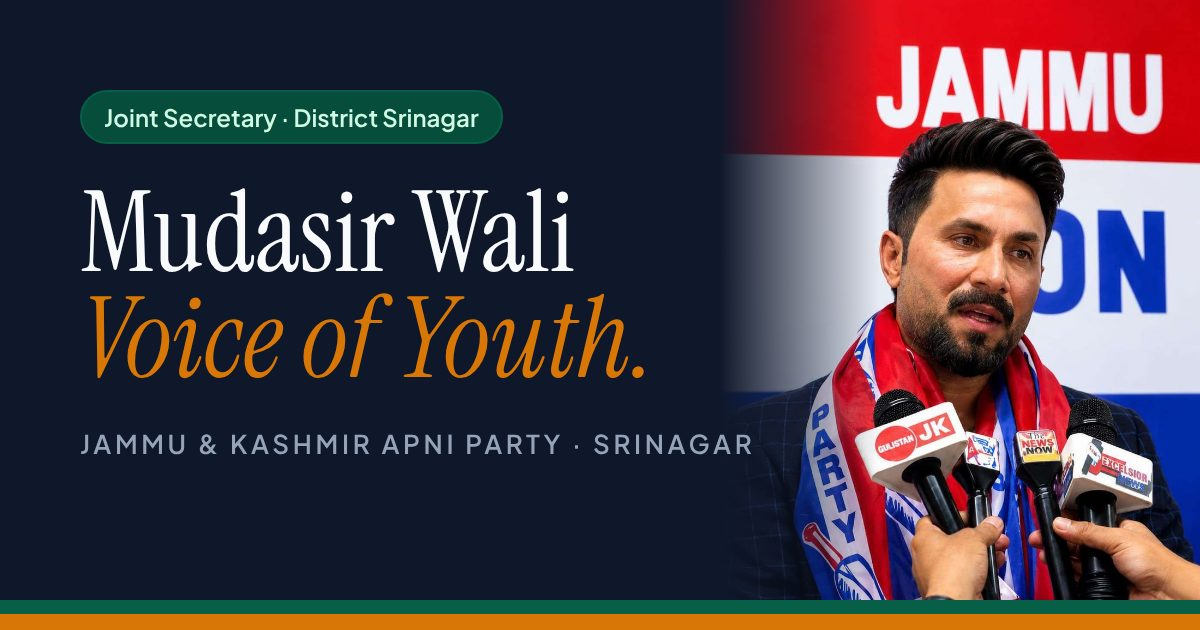
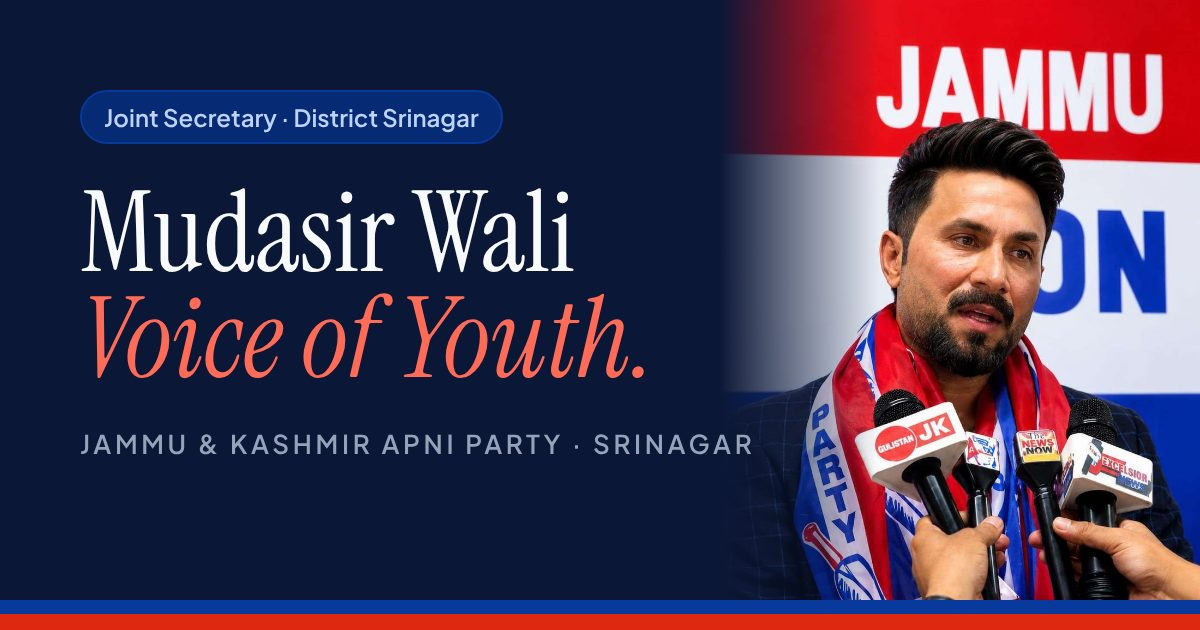
Re-theme to J&K Apni Party flag colours (red, white, blue)
Claude-Session: https://claude.ai/code/session_01TrgbCpq2MKgHR2873eZrCH

Changed region(s): [[0.0, 0.9349, 1.0, 1.0], [0.0617, 0.4524, 0.555, 0.6032], [0.0617, 0.1206, 0.4317, 0.2413]]

diff --git a/src/pages/Connect.tsx b/src/pages/Connect.tsx
@@ -35,24 +35,24 @@ export default function Connect() {
 
   return (
     <div className="relative min-h-dvh overflow-hidden bg-ink text-paper">
-      <div className="absolute inset-0 bg-[radial-gradient(ellipse_at_top,rgba(6,95,70,0.55),transparent_65%)]" aria-hidden="true" />
+      <div className="absolute inset-0 bg-[radial-gradient(ellipse_at_top,rgba(8,57,156,0.55),transparent_65%)]" aria-hidden="true" />
       <main className="relative mx-auto flex max-w-md flex-col px-4 pb-12 pt-6">
         <div className="flex justify-end">
           <LangToggle className="text-paper" />
         </div>
 
         <header className="mt-4 flex flex-col items-center text-center">
-          <div className="rounded-full p-1 ring-2 ring-gold">
+          <div className="rounded-full p-1 ring-2 ring-accent">
             <Portrait className="size-28" rounded="rounded-full" position="52% 42%" />
           </div>
           <h1 className="mt-5 font-serif text-5xl leading-none">Mudasir Wali</h1>
           <p className="mt-3 text-sm font-semibold text-paper/90">{t.about.title}</p>
-          <p className="mt-3 inline-flex items-center gap-1.5 text-sm font-medium text-emerald-100">
-            <BadgeCheck className="size-4 text-gold" aria-hidden="true" />
+          <p className="mt-3 inline-flex items-center gap-1.5 text-sm font-medium text-brand-soft">
+            <BadgeCheck className="size-4 text-accent" aria-hidden="true" />
             {t.hero.badge}
           </p>
           <p className="mt-1 text-xs uppercase tracking-[0.18em] text-slate-400">{t.hero.party}</p>
-          <p className="mt-4 font-serif text-2xl italic text-gold">
+          <p className="mt-4 font-serif text-2xl italic text-accent">
             {t.hero.title1} {t.hero.title2}
           </p>
         </header>
@@ -65,13 +65,13 @@ export default function Connect() {
                   href={href}
                   {...(external ? { target: "_blank", rel: "noopener noreferrer" } : {})}
                   className={`flex min-h-16 items-center gap-4 rounded-2xl px-5 py-3 transition active:scale-[0.99] ${
-                    primary ? "bg-amber-700 text-white hover:bg-amber-800" : "bg-white/[0.07] ring-1 ring-white/10 hover:bg-white/[0.12]"
+                    primary ? "bg-accent text-white hover:bg-accent-deep" : "bg-white/[0.07] ring-1 ring-white/10 hover:bg-white/[0.12]"
                   }`}
                 >
                   <Icon className="size-5 shrink-0" aria-hidden="true" />
                   <span className="flex-1 text-start">
                     <span className="block font-semibold">{label}</span>
-                    {sub && <span className={`block text-xs ${primary ? "text-amber-100" : "text-slate-400"}`}>{sub}</span>}
+                    {sub && <span className={`block text-xs ${primary ? "text-white" : "text-slate-400"}`}>{sub}</span>}
                   </span>
                   {external && <ExternalLink className="size-4 opacity-60" aria-hidden="true" />}
                 </a>
@@ -83,7 +83,7 @@ export default function Connect() {
                 aria-expanded={showForm}
                 aria-controls="connect-volunteer"
                 onClick={() => setShowForm((s) => !s)}
-                className="flex min-h-16 w-full items-center gap-4 rounded-2xl bg-forest px-5 py-3 font-semibold transition hover:bg-forest-deep"
+                className="flex min-h-16 w-full items-center gap-4 rounded-2xl bg-brand px-5 py-3 font-semibold transition hover:bg-brand-deep"
               >
                 <Users className="size-5 shrink-0" aria-hidden="true" />
                 <span className="flex-1 text-start">{t.hero.ctaJoin}</span>

diff --git a/src/components/Hero.tsx b/src/components/Hero.tsx
@@ -7,13 +7,13 @@ export function Hero() {
   const { t } = useLang();
   return (
     <section className="relative isolate overflow-hidden bg-ink text-paper">
-      <div className="absolute inset-0 -z-10 bg-[radial-gradient(ellipse_at_top_right,rgba(6,95,70,0.45),transparent_60%)]" />
+      <div className="absolute inset-0 -z-10 bg-[radial-gradient(ellipse_at_top_right,rgba(8,57,156,0.45),transparent_60%)]" />
       <DalBackdrop />
 
       <div className="relative mx-auto grid max-w-6xl items-end gap-10 px-4 pb-16 pt-28 sm:px-6 md:grid-cols-12 md:pb-24 md:pt-36">
         <div className="md:col-span-7">
-          <p className="inline-flex items-center gap-2 rounded-full border border-forest/60 bg-forest/25 px-3.5 py-1.5 text-xs font-semibold text-emerald-100 sm:text-sm">
-            <BadgeCheck className="size-4 shrink-0 text-gold" aria-hidden="true" />
+          <p className="inline-flex items-center gap-2 rounded-full border border-brand/60 bg-brand/25 px-3.5 py-1.5 text-xs font-semibold text-brand-soft sm:text-sm">
+            <BadgeCheck className="size-4 shrink-0 text-accent" aria-hidden="true" />
             {t.hero.badge}
           </p>
           <p className="mt-4 text-sm font-medium uppercase tracking-[0.18em] text-slate-400">{t.hero.party}</p>
@@ -21,13 +21,13 @@ export function Hero() {
           <h1 className="mt-5 font-serif text-[3.25rem] leading-[0.95] tracking-tight sm:text-7xl lg:text-8xl">
             <span className="sr-only">Mudasir Wali — </span>
             <span className="block">{t.hero.title1}</span>
-            <span className="block italic text-gold">{t.hero.title2}</span>
+            <span className="block italic text-accent">{t.hero.title2}</span>
           </h1>
 
           <p className="mt-6 max-w-xl text-lg leading-relaxed text-slate-300">{t.hero.lede}</p>
 
           <div className="mt-9 flex flex-col gap-3 sm:flex-row">
-            <a href="#darbar" className="btn-gold">
+            <a href="#darbar" className="btn-accent">
               {t.hero.ctaReport}
               <ArrowRight className="size-4 rtl:-scale-x-100" aria-hidden="true" />
             </a>
@@ -38,10 +38,10 @@ export function Hero() {
         </div>
 
         <figure className="relative mx-auto w-full max-w-sm md:col-span-5 md:max-w-none">
-          <div className="absolute -inset-3 -z-10 rounded-[2.5rem] border border-gold/30" aria-hidden="true" />
+          <div className="absolute -inset-3 -z-10 rounded-[2.5rem] border border-accent/30" aria-hidden="true" />
           <Portrait className="aspect-[4/5] w-full" />
           <figcaption className="absolute bottom-5 start-5 inline-flex items-center gap-1.5 rounded-full bg-ink/70 px-3 py-1.5 text-xs font-medium text-paper backdrop-blur">
-            <MapPin className="size-3.5 text-gold" aria-hidden="true" />
+            <MapPin className="size-3.5 text-accent" aria-hidden="true" />
             {t.hero.portraitCaption}
           </figcaption>
         </figure>

diff --git a/src/components/WardTracker.tsx b/src/components/WardTracker.tsx
@@ -54,7 +54,7 @@ export function WardTracker() {
                 aria-pressed={active}
                 onClick={() => setFocus(f)}
                 className={`inline-flex min-h-9 shrink-0 items-center gap-1.5 rounded-full px-3.5 text-xs font-semibold transition ${
-                  active ? "bg-forest text-white" : "bg-forest-tint text-forest hover:bg-emerald-100"
+                  active ? "bg-brand text-white" : "bg-brand-tint text-brand hover:bg-blue-100"
                 }`}
               >
                 {Icon && <Icon className="size-3.5" aria-hidden="true" />}
@@ -75,7 +75,7 @@ export function WardTracker() {
                   {localityName(w.id, lang === "en" ? "ur" : "en")}
                 </p>
               </div>
-              <span className="inline-flex shrink-0 items-center gap-1 rounded-full bg-gold-tint px-2.5 py-1 text-xs font-semibold text-amber-800">
+              <span className="inline-flex shrink-0 items-center gap-1 rounded-full bg-accent-tint px-2.5 py-1 text-xs font-semibold text-accent-deep">
                 <MapPin className="size-3" aria-hidden="true" />
                 {w.tagline[lang]}
               </span>
@@ -86,7 +86,7 @@ export function WardTracker() {
               {w.focus.map((c) => {
                 const Icon = CAT_ICON[c];
                 return (
-                  <li key={c} className={`inline-flex items-center gap-1 rounded-lg px-2 py-1 text-xs font-medium ${focus === c ? "bg-forest text-white" : "bg-white text-slate-700 ring-1 ring-slate-200"}`}>
+                  <li key={c} className={`inline-flex items-center gap-1 rounded-lg px-2 py-1 text-xs font-medium ${focus === c ? "bg-brand text-white" : "bg-white text-slate-700 ring-1 ring-slate-200"}`}>
                     <Icon className="size-3.5" aria-hidden="true" />
                     {categoryName(c, lang)}
                   </li>
@@ -100,7 +100,7 @@ export function WardTracker() {
                 <ul className="mt-2 space-y-2">
                   {w.onGround.map((u) => (
                     <li key={u.en} className="flex gap-2 text-sm leading-relaxed text-slate-700">
-                      <Megaphone className="mt-0.5 size-4 shrink-0 text-gold" aria-hidden="true" />
+                      <Megaphone className="mt-0.5 size-4 shrink-0 text-accent" aria-hidden="true" />
                       {u[lang]}
                     </li>
                   ))}
@@ -111,7 +111,7 @@ export function WardTracker() {
             <a
               href="#darbar"
               onClick={() => prefillGrievance({ locality: w.id, category: focus === "all" ? undefined : focus })}
-              className="mt-auto inline-flex items-center gap-1.5 pt-6 text-sm font-semibold text-forest hover:underline"
+              className="mt-auto inline-flex items-center gap-1.5 pt-6 text-sm font-semibold text-brand hover:underline"
             >
               <Plus className="size-4" aria-hidden="true" />
               {t.wards.reportHere}

diff --git a/src/components/Volunteer.tsx b/src/components/Volunteer.tsx
@@ -58,7 +58,7 @@ export function VolunteerForm({ compact = false }: { compact?: boolean }) {
           {ROLES.map(({ id, icon: Icon }) => (
             <label
               key={id}
-              className={`flex min-h-14 cursor-pointer items-center gap-3 rounded-2xl border px-4 py-3 text-sm font-semibold transition has-[:checked]:border-amber-700 has-[:checked]:bg-amber-700 has-[:checked]:text-white has-[:focus-visible]:ring-2 has-[:focus-visible]:ring-gold ${
+              className={`flex min-h-14 cursor-pointer items-center gap-3 rounded-2xl border px-4 py-3 text-sm font-semibold transition has-[:checked]:border-accent has-[:checked]:bg-accent has-[:checked]:text-white has-[:focus-visible]:ring-2 has-[:focus-visible]:ring-accent ${
                 dark ? "border-white/20 text-paper" : "border-slate-300 bg-white text-ink"
               }`}
             >
@@ -90,7 +90,7 @@ export function VolunteerForm({ compact = false }: { compact?: boolean }) {
           <input id={`${uid}-phone`} type="tel" dir="ltr" inputMode="numeric" autoComplete="tel-national" placeholder="9XXXXXXXXX" className={`field ${fieldTone}`} value={phone} onChange={(e) => setPhone(e.target.value)} />
         </div>
       </div>
-      {error && <p role="alert" className={`text-sm font-medium ${dark ? "text-amber-300" : "text-red-700"}`}>{error}</p>}
+      {error && <p role="alert" className={`text-sm font-medium ${dark ? "text-accent-soft" : "text-red-700"}`}>{error}</p>}
       <button type="submit" className="btn bg-[#25D366] text-ink hover:bg-[#1ebe5b] w-full sm:w-auto">
         <WhatsAppIcon className="size-5" />
         {t.volunteer.submit}
@@ -102,12 +102,12 @@ export function VolunteerForm({ compact = false }: { compact?: boolean }) {
 export function Volunteer() {
   const { t } = useLang();
   return (
-    <section id="join" aria-labelledby="join-title" className="bg-forest-deep px-4 py-20 text-paper sm:px-6 md:py-28">
+    <section id="join" aria-labelledby="join-title" className="bg-brand-deep px-4 py-20 text-paper sm:px-6 md:py-28">
       <div className="mx-auto grid max-w-6xl gap-10 lg:grid-cols-12">
         <header className="lg:col-span-5">
-          <p className="eyebrow text-amber-400!">{t.volunteer.eyebrow}</p>
+          <p className="eyebrow text-accent-soft!">{t.volunteer.eyebrow}</p>
           <h2 id="join-title" className="mt-3 font-serif text-4xl leading-[1.05] sm:text-5xl md:text-6xl">{t.volunteer.title}</h2>
-          <p className="mt-4 text-lg text-emerald-100/80">{t.volunteer.lede}</p>
+          <p className="mt-4 text-lg text-brand-soft/90">{t.volunteer.lede}</p>
         </header>
         <div className="rounded-3xl bg-ink/40 p-5 ring-1 ring-white/10 sm:p-8 lg:col-span-7">
           <VolunteerForm />

diff --git a/src/index.css b/src/index.css
@@ -1,15 +1,18 @@
 @import "tailwindcss";
 
 @theme {
-  /* Brand tokens */
-  --color-ink: #0f172a;
-  --color-ink-soft: #1e293b;
+  /* Brand tokens — J&K Apni Party flag: red / white / blue */
+  --color-ink: #0b1736;
+  --color-ink-soft: #16244a;
   --color-paper: #f8fafc;
-  --color-forest: #065f46;
-  --color-forest-deep: #064e3b;
-  --color-forest-tint: #ecfdf5;
-  --color-gold: #d97706;
-  --color-gold-tint: #fef3c7;
+  --color-brand: #08399c;
+  --color-brand-deep: #062a73;
+  --color-brand-tint: #eaf0fc;
+  --color-brand-soft: #bfd3ff;
+  --color-accent: #de2910;
+  --color-accent-deep: #b8200b;
+  --color-accent-tint: #fdecea;
+  --color-accent-soft: #ffb4a6;
 
   --font-serif: "Instrument Serif", "Playfair Display", Georgia, serif;
   --font-sans: "Plus Jakarta Sans", Inter, system-ui, sans-serif;
@@ -29,7 +32,7 @@
     line-height: 2;
   }
   :focus-visible {
-    outline: 2px solid var(--color-gold);
+    outline: 2px solid var(--color-accent);
     outline-offset: 2px;
   }
   @media (prefers-reduced-motion: reduce) {
@@ -39,7 +42,7 @@
 }
 
 @utility field {
-  @apply w-full rounded-xl border border-slate-300 bg-white px-4 py-3 text-base text-ink placeholder:text-slate-400 transition focus:border-forest focus:outline-none focus:ring-2 focus:ring-forest/20;
+  @apply w-full rounded-xl border border-slate-300 bg-white px-4 py-3 text-base text-ink placeholder:text-slate-400 transition focus:border-brand focus:outline-none focus:ring-2 focus:ring-brand/20;
 }
 @utility label {
   @apply mb-1.5 block text-sm font-semibold text-ink;
@@ -48,16 +51,16 @@
   @apply inline-flex min-h-12 items-center justify-center gap-2 rounded-full px-6 text-sm font-semibold transition active:scale-[0.98] disabled:opacity-50;
 }
 @utility btn-primary {
-  @apply btn bg-forest text-white hover:bg-forest-deep;
+  @apply btn bg-brand text-white hover:bg-brand-deep;
 }
-@utility btn-gold {
-  @apply btn bg-amber-700 text-white hover:bg-amber-800;
+@utility btn-accent {
+  @apply btn bg-accent text-white hover:bg-accent-deep;
 }
 @utility btn-ghost {
   @apply btn border border-current;
 }
 @utility eyebrow {
-  @apply text-xs font-bold uppercase tracking-[0.2em] text-amber-700;
+  @apply text-xs font-bold uppercase tracking-[0.2em] text-accent-deep;
 }
 
 /* Unlayered so it beats the font-serif utility when Urdu is active. */

diff --git a/src/components/JanataDarbar.tsx b/src/components/JanataDarbar.tsx
@@ -133,8 +133,8 @@ export function JanataDarbar() {
             </form>
           ) : (
             <div id={`${uid}-ticket`} tabIndex={-1} role="status" className="rounded-3xl bg-ink p-6 text-paper outline-none sm:p-8">
-              <p className="eyebrow text-amber-400!">{t.darbar.ticketTitle}</p>
-              <p className="mt-3 font-mono text-3xl font-bold tracking-wider text-gold sm:text-4xl" dir="ltr">{ticket.id}</p>
+              <p className="eyebrow text-accent-soft!">{t.darbar.ticketTitle}</p>
+              <p className="mt-3 font-mono text-3xl font-bold tracking-wider text-accent-soft sm:text-4xl" dir="ltr">{ticket.id}</p>
               <p className="mt-4 text-slate-300">{t.darbar.ticketNote}</p>
               <pre className="mt-6 max-h-60 overflow-auto whitespace-pre-wrap rounded-2xl bg-white/5 p-4 text-start font-sans text-sm text-slate-200" dir="ltr">{ticket.message.replace(/\*|_/g, "")}</pre>
               <div className="mt-6 flex flex-col gap-3 sm:flex-row sm:flex-wrap">
@@ -162,7 +162,7 @@ export function JanataDarbar() {
               : ["اپنی تفصیلات اور مسئلہ درج کریں۔", "فوری حوالہ نمبر حاصل کریں (MW-SRN-…)۔", "ایک ٹچ میں واٹس ایپ پر ٹیم کو بھیجیں۔", "ہر پیروی کے لیے اپنا حوالہ نمبر بتائیں۔"]
             ).map((step, i) => (
               <li key={step} className="flex gap-4 rounded-2xl border border-slate-200 bg-white p-5">
-                <span className="grid size-9 shrink-0 place-items-center rounded-full bg-forest-tint font-serif text-xl text-forest">{i + 1}</span>
+                <span className="grid size-9 shrink-0 place-items-center rounded-full bg-brand-tint font-serif text-xl text-brand">{i + 1}</span>
                 <span className="pt-1.5 text-slate-700">{step}</span>
               </li>
             ))}

diff --git a/src/components/About.tsx b/src/components/About.tsx
@@ -15,7 +15,7 @@ export function About() {
           </h2>
           <ul className="mt-6 flex flex-wrap gap-2">
             {a.roles.map((r) => (
-              <li key={r} className="rounded-full bg-forest-tint px-3.5 py-1.5 text-sm font-semibold text-forest">
+              <li key={r} className="rounded-full bg-brand-tint px-3.5 py-1.5 text-sm font-semibold text-brand">
                 {r}
               </li>
             ))}
@@ -29,13 +29,13 @@ export function About() {
 
         <div className="flex flex-col gap-4 lg:col-span-5 lg:pt-16">
           <article className="rounded-3xl bg-ink p-7 text-paper sm:p-8">
-            <h3 className="flex items-center gap-2 text-xs font-bold uppercase tracking-[0.2em] text-gold">
+            <h3 className="flex items-center gap-2 text-xs font-bold uppercase tracking-[0.2em] text-accent-soft">
               <Target className="size-4" aria-hidden="true" /> {a.mission}
             </h3>
             <p className="mt-4 font-serif text-2xl leading-snug sm:text-3xl">{a.missionText}</p>
           </article>
-          <article className="rounded-3xl bg-forest p-7 text-paper sm:p-8">
-            <h3 className="flex items-center gap-2 text-xs font-bold uppercase tracking-[0.2em] text-amber-300">
+          <article className="rounded-3xl bg-brand p-7 text-paper sm:p-8">
+            <h3 className="flex items-center gap-2 text-xs font-bold uppercase tracking-[0.2em] text-accent-soft">
               <Compass className="size-4" aria-hidden="true" /> {a.vision}
             </h3>
             <p className="mt-4 font-serif text-2xl leading-snug sm:text-3xl">{a.visionText}</p>

diff --git a/src/components/Header.tsx b/src/components/Header.tsx
@@ -33,7 +33,7 @@ export function Header() {
       <div className="mx-auto flex h-16 max-w-6xl items-center justify-between gap-4 px-4 sm:px-6">
         <a href="/" className="flex items-baseline gap-2" aria-label="Mudasir Wali — home">
           <span className="font-serif text-2xl leading-none">Mudasir Wali</span>
-          <span className="hidden h-1.5 w-1.5 rounded-full bg-gold sm:block" aria-hidden="true" />
+          <span className="hidden h-1.5 w-1.5 rounded-full bg-accent sm:block" aria-hidden="true" />
         </a>
 
         <nav aria-label="Primary" className="hidden items-center gap-7 text-sm font-medium md:flex">
@@ -46,7 +46,7 @@ export function Header() {
 
         <div className="flex items-center gap-2">
           <LangToggle className="text-paper" />
-          <a href="/#join" className="btn-gold hidden min-h-10 px-5 md:inline-flex">
+          <a href="/#join" className="btn-accent hidden min-h-10 px-5 md:inline-flex">
             {t.nav.join}
           </a>
           <button
@@ -73,7 +73,7 @@ export function Header() {
               </li>
             ))}
           </ul>
-          <a href="/#join" onClick={() => setOpen(false)} className="btn-gold mt-4 w-full">
+          <a href="/#join" onClick={() => setOpen(false)} className="btn-accent mt-4 w-full">
             {t.nav.join}
           </a>
         </nav>

diff --git a/src/components/PressRoom.tsx b/src/components/PressRoom.tsx
@@ -8,7 +8,7 @@ import { Section } from "./Section";
 
 const CAT_STYLE: Record<PressNote["category"], string> = {
   Politics: "bg-ink text-paper",
-  Civic: "bg-forest text-white",
+  Civic: "bg-brand text-white",
 };
 
 function CopyButton({ note, className = "" }: { note: PressNote; className?: string }) {
@@ -122,7 +122,7 @@ function Sources({ note, dark = false }: { note: PressNote; dark?: boolean }) {
     <p className={`mt-6 flex flex-wrap items-center gap-x-3 gap-y-1 text-sm ${dark ? "text-slate-400" : "text-slate-500"}`}>
       <span>As reported by</span>
       {note.sources.map((s) => (
-        <a key={s.url} href={s.url} target="_blank" rel="noopener noreferrer" className={`relative z-10 inline-flex items-center gap-1 font-semibold underline-offset-4 hover:underline ${dark ? "text-paper" : "text-forest"}`}>
+        <a key={s.url} href={s.url} target="_blank" rel="noopener noreferrer" className={`relative z-10 inline-flex items-center gap-1 font-semibold underline-offset-4 hover:underline ${dark ? "text-paper" : "text-brand"}`}>
           {s.name} <ExternalLink className="size-3" aria-hidden="true" />
         </a>
       ))}

diff --git a/src/components/Pillars.tsx b/src/components/Pillars.tsx
@@ -5,10 +5,10 @@ import { PILLARS, type PillarId } from "../data/pillars";
 import { Section } from "./Section";
 
 const META: Record<PillarId, { icon: LucideIcon; span: string; tone: string; accent: string }> = {
-  politics: { icon: Flag, span: "md:col-span-4", tone: "bg-ink text-paper", accent: "text-gold" },
-  grievances: { icon: Megaphone, span: "md:col-span-2", tone: "bg-gold-tint text-ink", accent: "text-amber-800" },
-  youth: { icon: Sparkles, span: "md:col-span-2", tone: "bg-forest-tint text-ink", accent: "text-forest" },
-  welfare: { icon: HandHeart, span: "md:col-span-4", tone: "bg-forest text-paper", accent: "text-amber-300" },
+  politics: { icon: Flag, span: "md:col-span-4", tone: "bg-ink text-paper", accent: "text-accent-soft" },
+  grievances: { icon: Megaphone, span: "md:col-span-2", tone: "bg-accent-tint text-ink", accent: "text-accent-deep" },
+  youth: { icon: Sparkles, span: "md:col-span-2", tone: "bg-brand-tint text-ink", accent: "text-brand" },
+  welfare: { icon: HandHeart, span: "md:col-span-4", tone: "bg-brand text-paper", accent: "text-accent-soft" },
 };
 
 export function Pillars() {

diff --git a/src/components/UrduBanner.tsx b/src/components/UrduBanner.tsx
@@ -7,11 +7,11 @@ export function UrduBanner() {
   const ur = STRINGS.ur.urduBanner;
   const en = STRINGS.en.urduBanner;
   return (
-    <aside aria-label="Message in Urdu" className="border-y-4 border-gold bg-forest px-4 py-10 text-paper sm:px-6">
+    <aside aria-label="Message in Urdu" className="border-y-4 border-accent bg-brand px-4 py-10 text-paper sm:px-6">
       <div className="mx-auto flex max-w-6xl flex-col items-center gap-3 text-center">
-        <p lang="ur" dir="rtl" className="font-urdu text-sm text-emerald-200">{ur.kicker}</p>
+        <p lang="ur" dir="rtl" className="font-urdu text-sm text-brand-soft">{ur.kicker}</p>
         <p lang="ur" dir="rtl" className="font-urdu text-2xl leading-[2.2] sm:text-3xl">{ur.text}</p>
-        {lang === "en" && <p className="max-w-2xl text-sm text-emerald-100/80">{en.text}</p>}
+        {lang === "en" && <p className="max-w-2xl text-sm text-brand-soft/90">{en.text}</p>}
       </div>
     </aside>
   );

diff --git a/src/components/DalBackdrop.tsx b/src/components/DalBackdrop.tsx
@@ -9,13 +9,13 @@ export function DalBackdrop() {
     >
       <defs>
         <linearGradient id="dal-water" x1="0" y1="0" x2="0" y2="1">
-          <stop offset="0" stopColor="#065F46" stopOpacity="0" />
-          <stop offset="0.5" stopColor="#065F46" stopOpacity="0.18" />
+          <stop offset="0" stopColor="#08399C" stopOpacity="0" />
+          <stop offset="0.5" stopColor="#08399C" stopOpacity="0.18" />
           <stop offset="1" stopColor="#0F172A" stopOpacity="1" />
         </linearGradient>
         <linearGradient id="dal-sun" x1="0" y1="0" x2="0" y2="1">
-          <stop offset="0" stopColor="#D97706" stopOpacity="0.55" />
-          <stop offset="1" stopColor="#D97706" stopOpacity="0" />
+          <stop offset="0" stopColor="#DE2910" stopOpacity="0.55" />
+          <stop offset="1" stopColor="#DE2910" stopOpacity="0" />
         </linearGradient>
       </defs>
       <circle cx="1080" cy="250" r="120" fill="url(#dal-sun)" />
